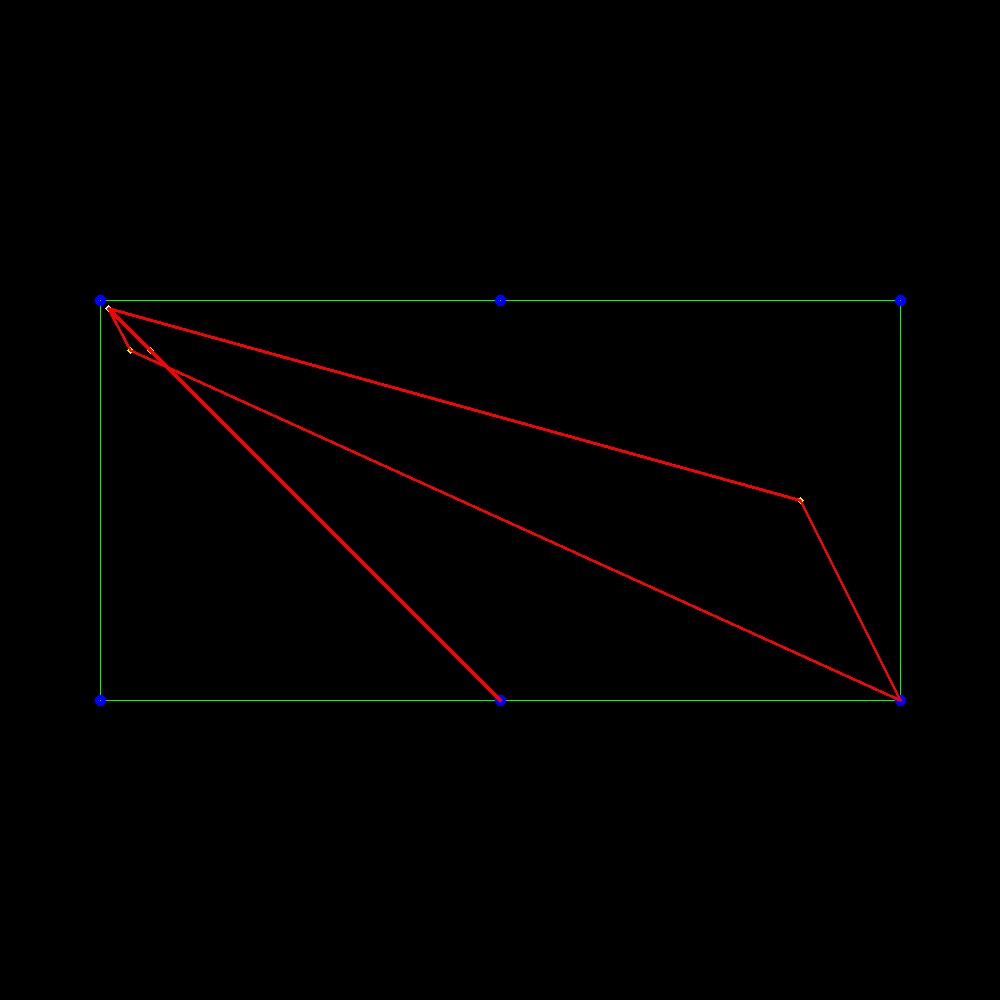
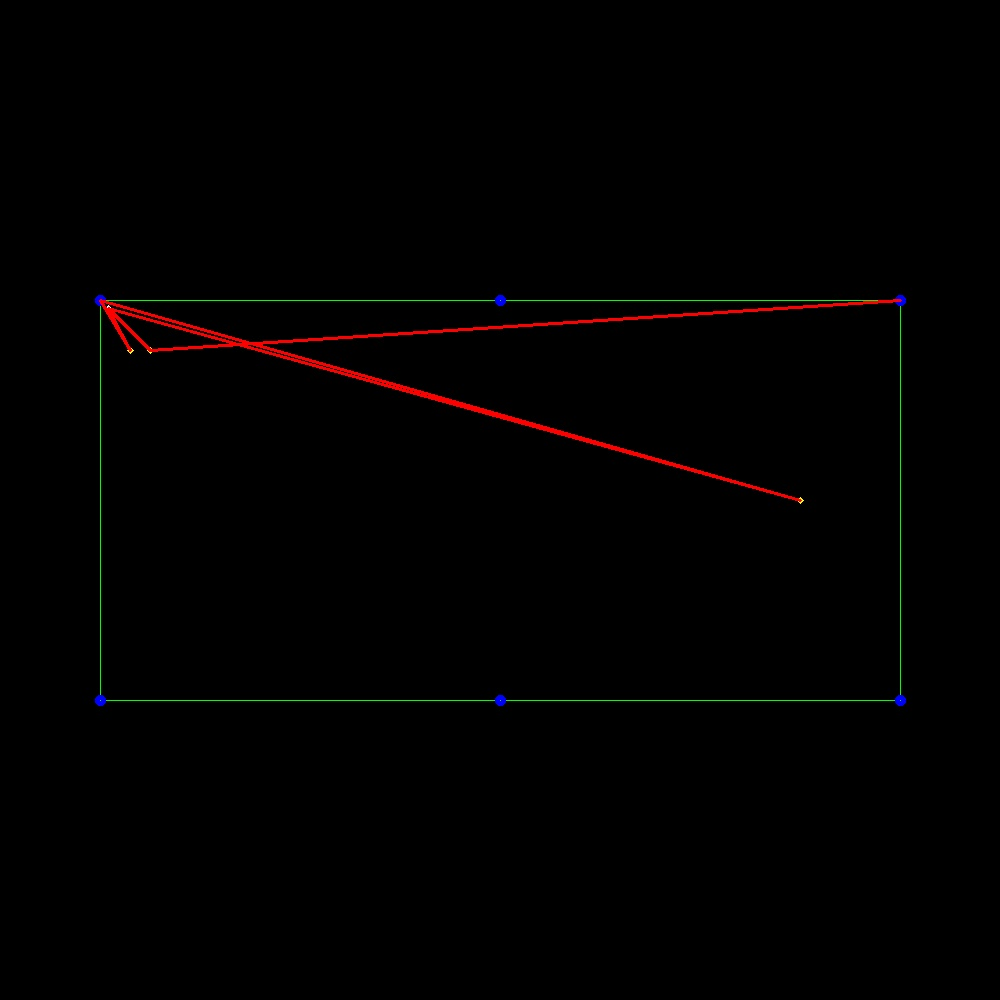
Fixed a Really Stupid Slope Calculation Bug

diff --git a/shot_calculation.py b/shot_calculation.py
@@ -22,7 +22,7 @@ def create_first_lines(listX,listY):
         b = -1
         diffX = listX[i]-listX[0]
         diffY = listY[i]-listY[0]
-        slope = diffX/diffY
+        slope = diffY/diffX
         b = listY[i] - (slope*listX[i])
         #check collisions for each ball with every other ball
         for j in range(1,15):
@@ -74,12 +74,17 @@ def create_second_lines(listX, listY):
         min_ind = 0
         cur_ind = 0
         possible_shot = False
+        if (i==2):
+            print("All Possible shots are:")
+            print(all_shots_for_current_ball)
+            print("Balls First Line is ")
+            print(first_lines[1])
         for shot in all_shots_for_current_ball:
             if shot[0] == -1: continue;
             else:
                 slope_delta = abs(shot[0] - first_lines[i-1][0]) #incorrect since i need to account for direction of each slope as well
-                #if ((shot[0]*first_lines[i-1][0])>0): 
-                    #continue
+                if ((shot[0]*first_lines[i-1][0])<0): 
+                    continue
                 if slope_delta<min_delta:
                     min_delta = slope_delta
                     min_ind = cur_ind
@@ -192,10 +197,8 @@ def drawImage():
     for pocket in pockets:
         cv.circle(img,(pocket[0],pocket[1]),radius*3,(255,0,0),3)   
     create_first_lines(listX,listY)
+    print(first_lines)
     create_second_lines(listX,listY)
-    #print(first_lines)
-    #print(second_lines)
-    #print(pockets_for_each_ball)
     for i in range(1,15):
         if ((listX[i]!=-1) and (first_lines[i-1]!=-3)):
             cv.line(img,(listX[0],listY[0]),(listX[i],listY[i]),(0,0,255),2);
